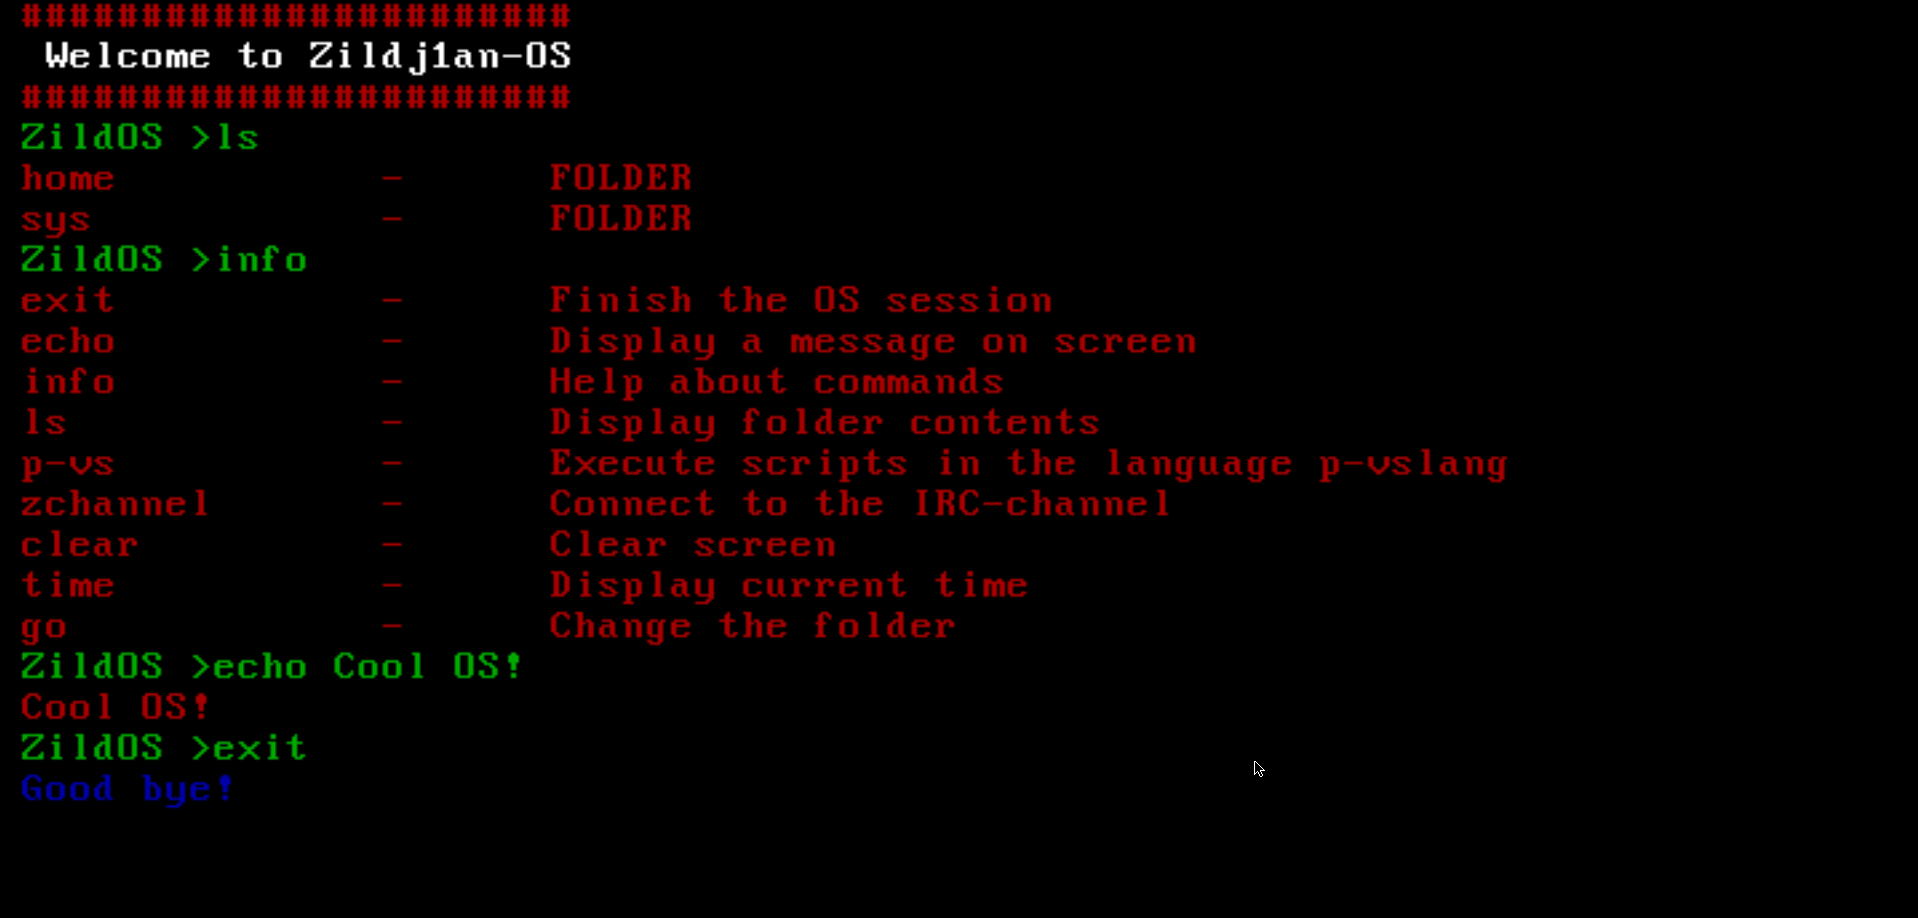
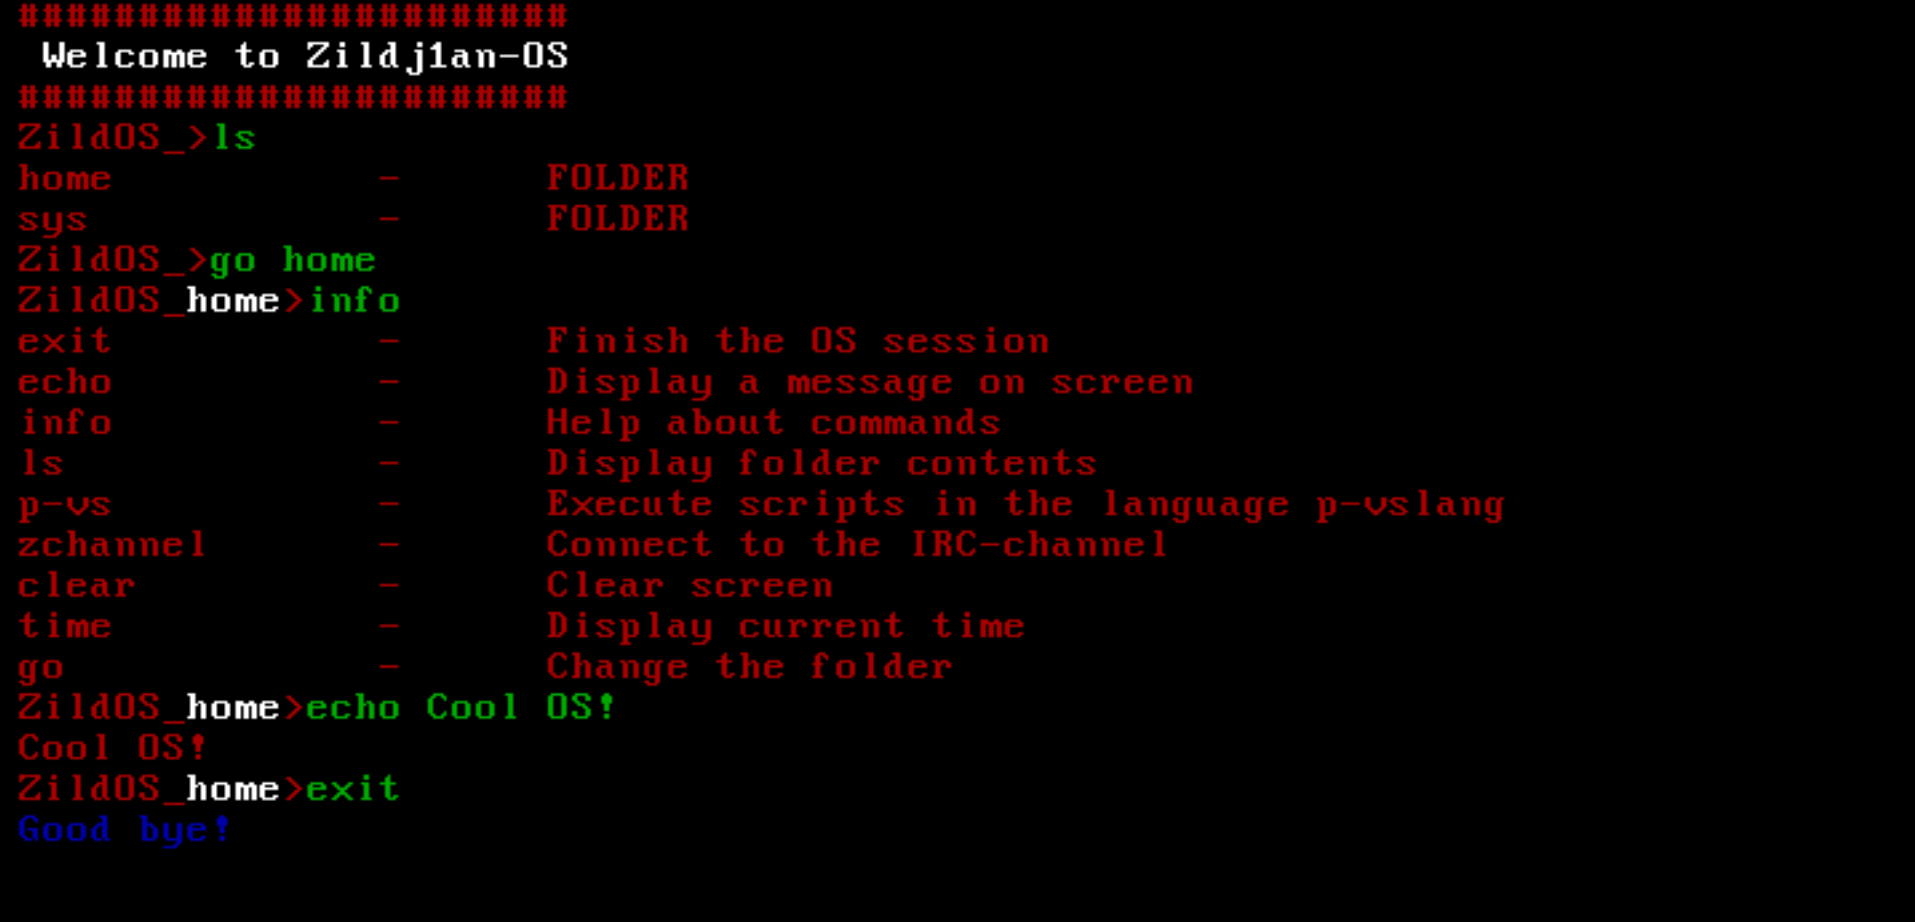
New prompt style

Changed region(s): [[0.0, 0.0, 0.801, 0.915], [0.2773, 0.1525, 0.3697, 0.2745]]

diff --git a/kernel/kernel.c b/kernel/kernel.c
@@ -17,6 +17,20 @@
 #include "command.h"
 #include "string.h"
 
+static void display_prompt(){
+
+        unsigned char prompt[]    = "ZildOS_";
+	unsigned char end[] = ">";
+
+	write_O((unsigned char*) &prompt, sizeof(prompt),RED);
+
+	if(CURR_FOLDER)
+		write_O((unsigned char*)hierarchy.files[CURR_FOLDER].file_name,
+			   sizeof(hierarchy.files[CURR_FOLDER].file_name), WHITE);
+
+	write_O((unsigned char*) &end, 1,RED);
+}
+
 static void inline welcome_msg(void){
 
         unsigned char msg[]       = "#######################\n";
@@ -30,9 +44,9 @@ static void inline welcome_msg(void){
 
 int main_k(void* minfo){
 
-	unsigned char prompt[]    = "ZildOS >";
 	unsigned char exit_msg[]  = "Good bye!\n";
 	unsigned char error_msg[] = "Memory error, exiting...\n";
+        unsigned char *command;
 
 	cleanScreen();
 	init_cursor();
@@ -46,17 +60,18 @@ int main_k(void* minfo){
 
 	setup_interrupts();
 
-	unsigned char *command = string(MAX_COMMAND);
+	command = string(MAX_COMMAND);
 	welcome_msg();
-
 	init_commands();
 	init_kb();
         init_fs(); 				/* Setup File System */
 
 	while (1) {
-		write_O((unsigned char*) &prompt, sizeof(prompt),GREEN);
+
+                display_prompt();
 		read_I(command);
-		if(execute_command(command) == EXIT_COMMAND){
+
+		if (execute_command(command) == EXIT_COMMAND){
 			write_O((unsigned char*) &exit_msg, sizeof(exit_msg), BLUE);
 			stop_cursor();
 			break;

diff --git a/kernel/io/text.h b/kernel/io/text.h
@@ -51,6 +51,7 @@ static inline int invalid_color(COLOR color){
 static void scroll_half() {
 
 	unsigned int i, j;
+
 	for (i = ROW_TEXT/2; i < ROW_TEXT; ++i) {
 		for (j = 0; j < COLUMN_TEXT; ++j) {
 			SCREEN_BUFFER[j + (i-ROW_TEXT/2)*COLUMN_TEXT] =
@@ -113,7 +114,7 @@ int write_O(unsigned char* msg, size_t count, COLOR color){
 }
 
 int write_Ons(unsigned char* msg, COLOR color) {
-	
+
 	int ret;
 	size_t count = strlen(msg);
 	ret = write_O(msg, count, color);
@@ -153,7 +154,7 @@ static int replace_O(unsigned char* msg, int count, COLOR color) {
 }
 
 static int replace_Ons(unsigned char* msg, COLOR color) {
-	
+
 	int ret;
 	size_t count = strlen(msg);
 	ret = replace_O(msg, count, color);
